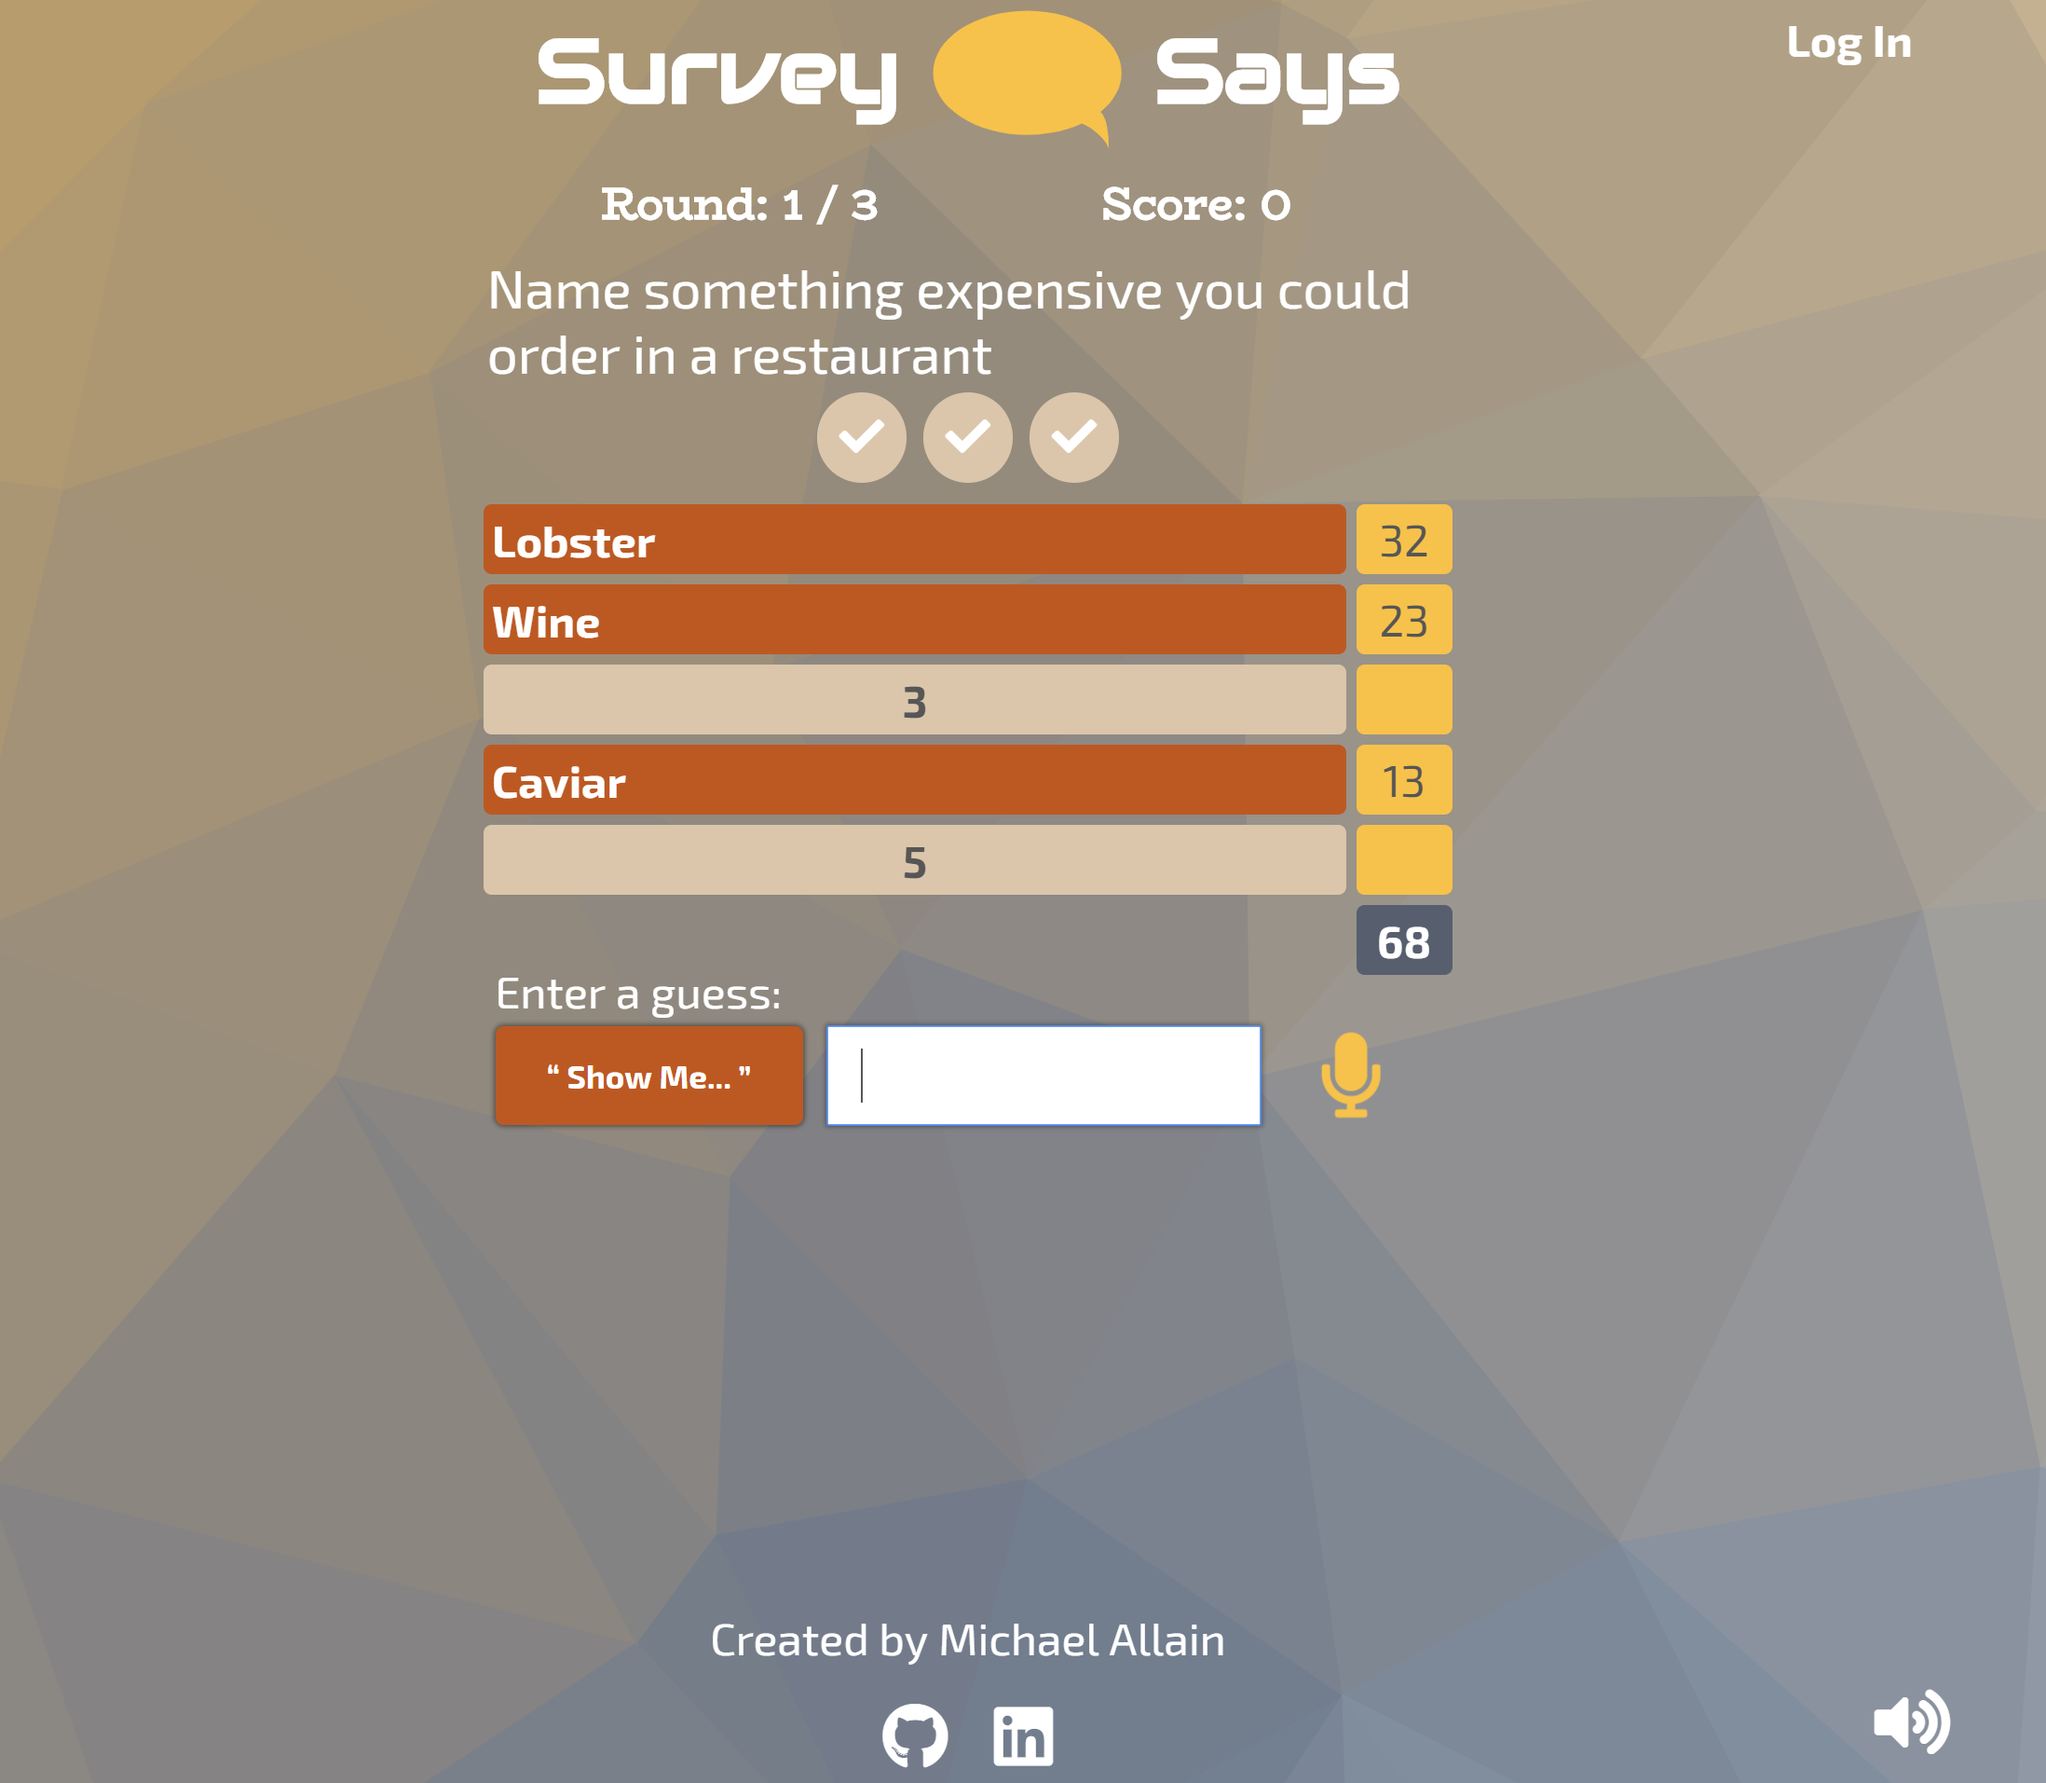
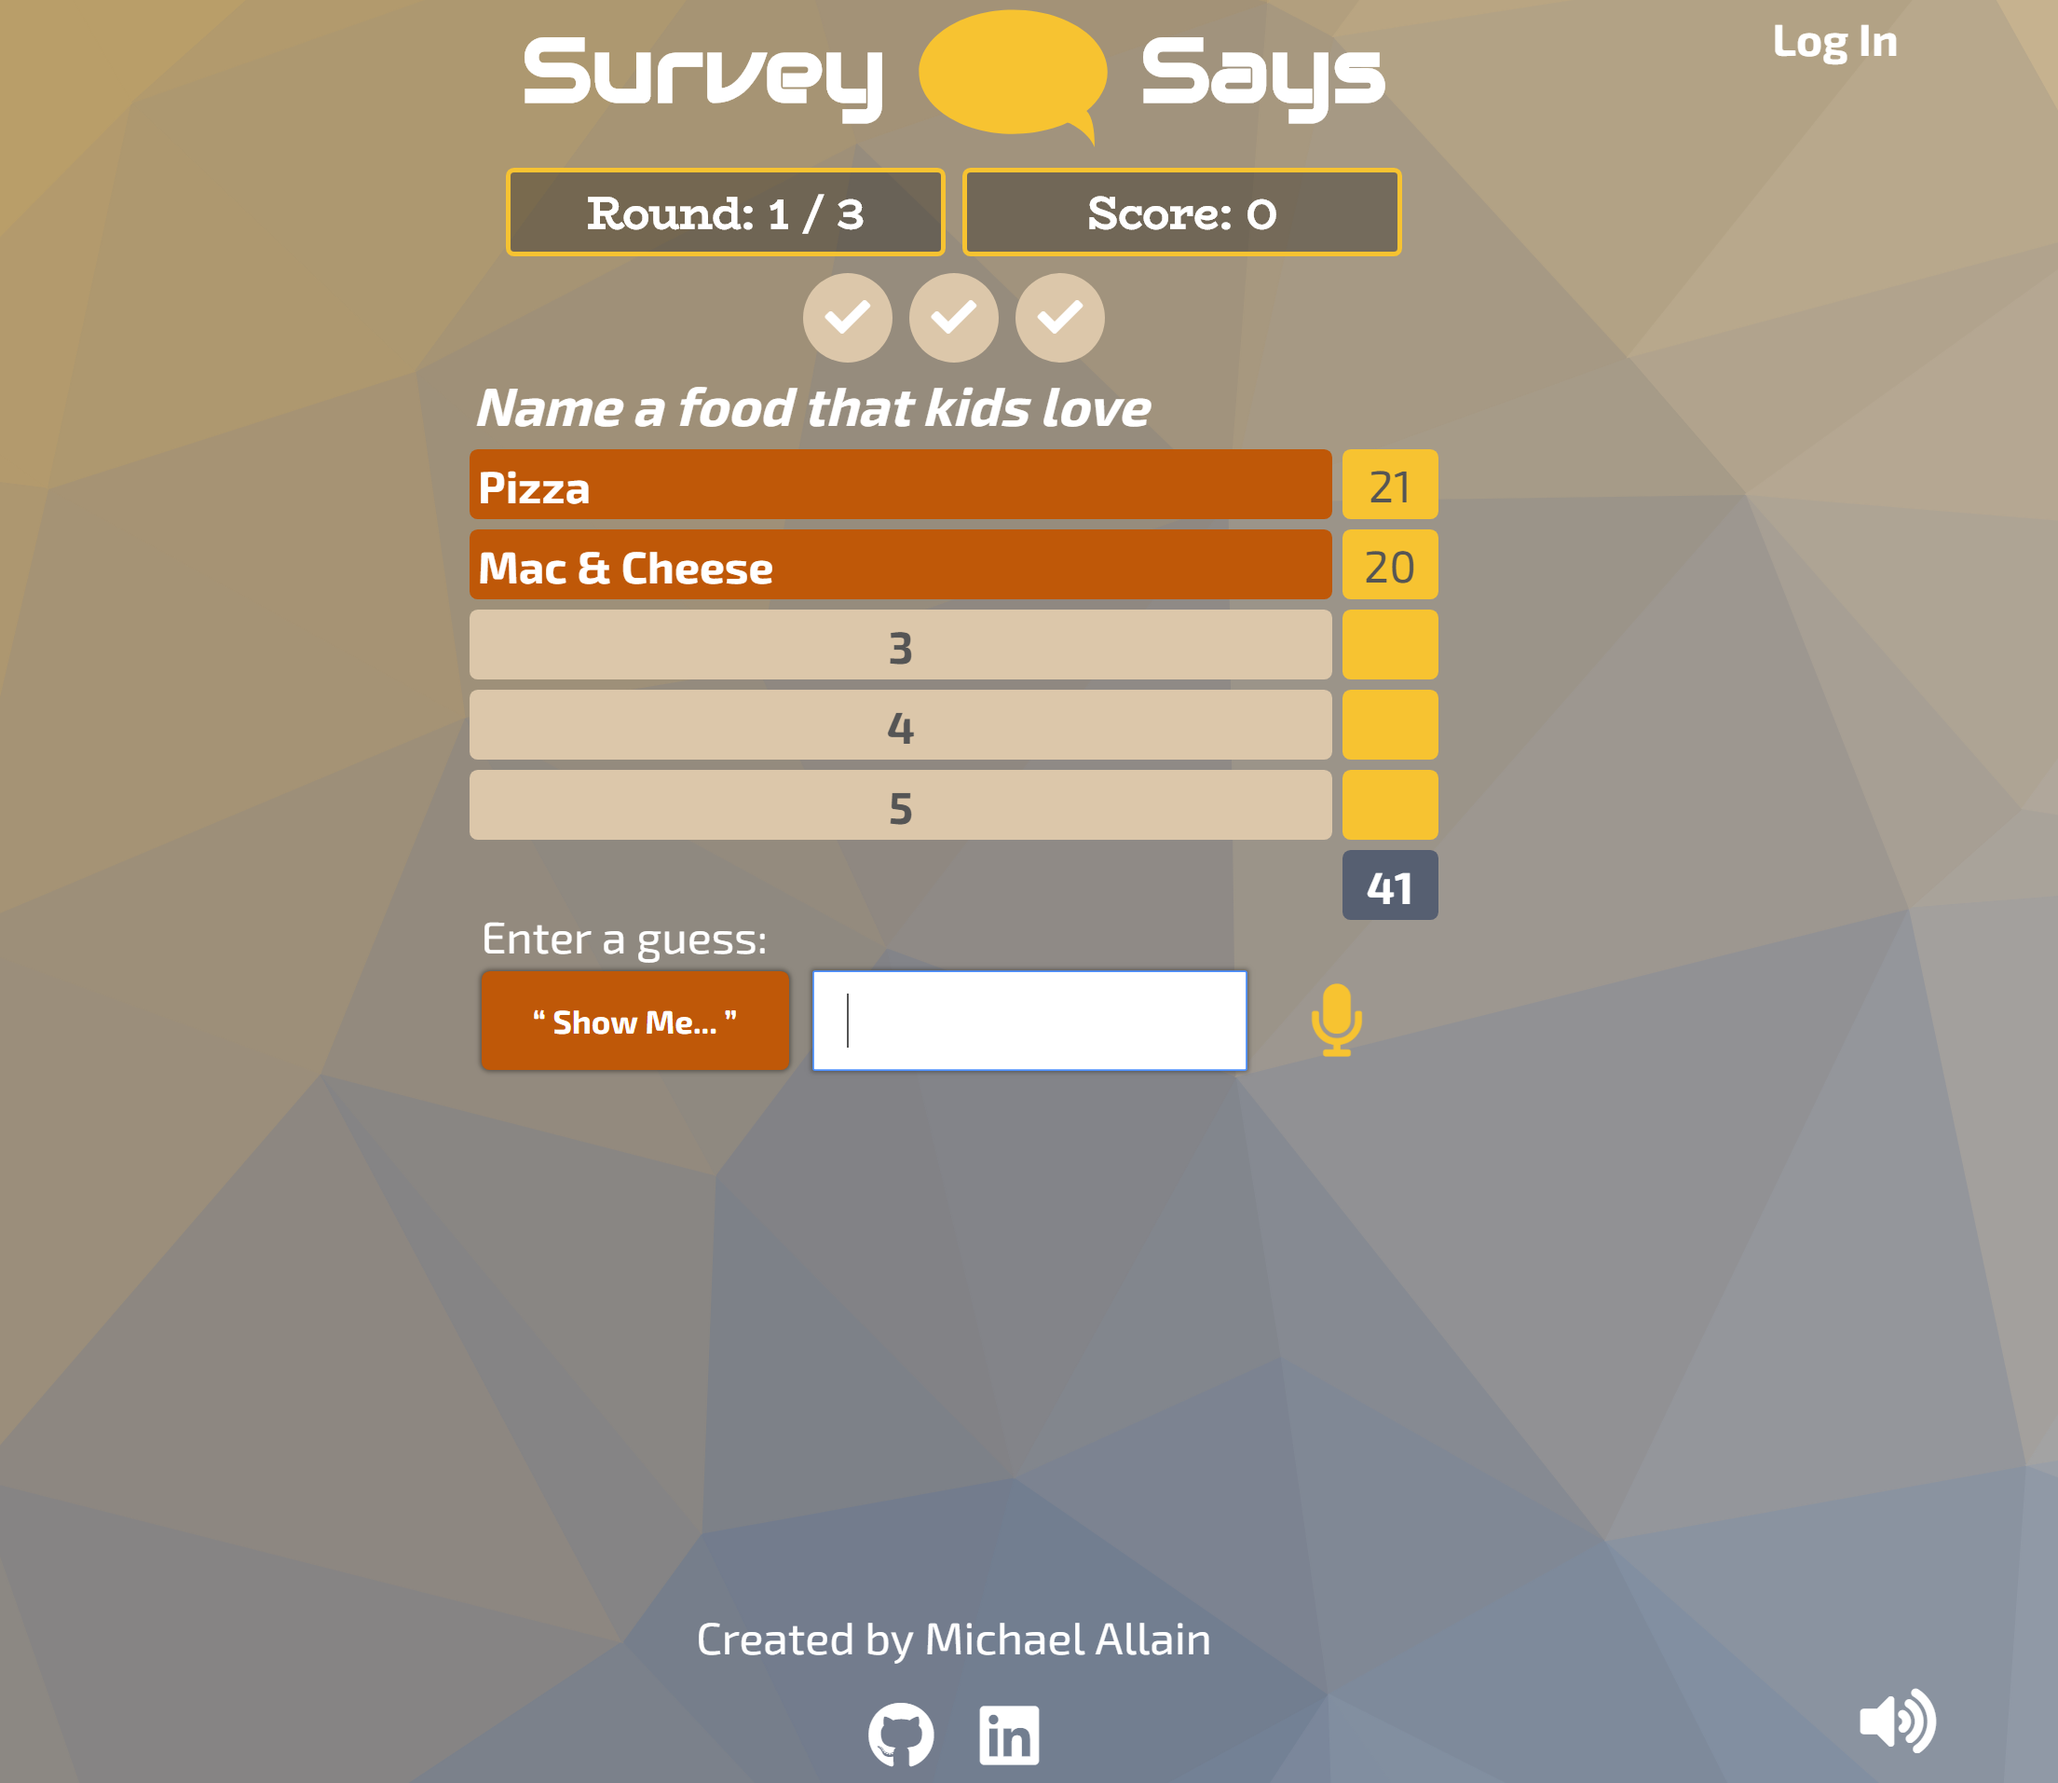
Adjust styling and readme screenshot

diff --git a/public/index.html b/public/index.html
@@ -104,22 +104,22 @@
                 </div>
             </header>
 
-            <section class='question' role='region'>
-                <p id='question-text' class='question__text'></p>
+            <section class='guesses' role='region'>
+                <div class='guesses__flex-wrapper'>
+                    <div class='guesses__icon guesses__icon--checked' aria-label='guess remaining'>
+                        <i class="fas fa-check" aria-hidden='true'></i>
+                    </div>
+                    <div class='guesses__icon guesses__icon--checked' aria-label='guess remaining'>
+                        <i class="fas fa-check" aria-hidden='true'></i>
+                    </div>
+                    <div class='guesses__icon guesses__icon--checked' aria-label='guess remaining'>
+                        <i class="fas fa-check" aria-hidden='true'></i>
+                    </div>
+                </div>
             </section>
 
-            <section class='guesses' role='region'>
-                    <div class='guesses__flex-wrapper'>
-                        <div class='guesses__icon guesses__icon--checked' aria-label='guess remaining'>
-                            <i class="fas fa-check" aria-hidden='true'></i>
-                        </div>
-                        <div class='guesses__icon guesses__icon--checked' aria-label='guess remaining'>
-                            <i class="fas fa-check" aria-hidden='true'></i>
-                        </div>
-                        <div class='guesses__icon guesses__icon--checked' aria-label='guess remaining'>
-                            <i class="fas fa-check" aria-hidden='true'></i>
-                        </div>
-                    </div>
+            <section class='question' role='region'>
+                <p id='question-text' class='question__text'></p>
             </section>
 
             <section class='answers' role='region' aria-live='polite'>

diff --git a/public/main.css b/public/main.css
@@ -576,21 +576,32 @@ html {
     margin: 0 auto;
     font-family: var(--heading-font);
     padding: 0 20px;
+    justify-content: center;
 }
 
 .game-info__flex-item {
     flex: 1 1 calc(50%);
+    border: 3px var(--ter-color) solid;
+    border-radius: 5px;
+    background: rgba(0,0,0, 0.3);
+    /* background: var(--main-bg-color); */
+    padding: 3px;
+    max-width: 10rem;
+    margin: 0 5px
 }
 
 .game-info__heading {
     text-align: center;
-    margin: 0 0 5px;
+    margin: 0;
     font-size: 2.5vmin;
 }
 
 @media (max-width: 640px), (max-height: 640px) {
     .game-info__heading {
-        font-size: 16px;
+        font-size: 14px;
+    }
+    .game-info__flex-item {
+        padding: 0;
     }
 }
 
@@ -691,15 +702,9 @@ html {
     margin: 0 auto;
     width: 90%;
     max-width: 500px;
-    padding: 0 10px 10px;
+    padding-top: 10px;
     text-align: center;
 }
-
-/* .guesses__header {
-    margin: 0 0 5px;
-    font-size: 1rem;
-    font-family: var(--heading-font);
-} */
 
 .guesses__flex-wrapper {
     display: flex;
@@ -743,6 +748,10 @@ html {
 }
 
 @media (max-height: 500px) {
+    .guesses {
+        padding-top: 5px;
+    }
+    
     .guesses__icon {
         height: 1.5rem;
         width: 1.5rem;
@@ -763,6 +772,8 @@ html {
 .question__text {
     margin: 0;
     font-size: 3vmin;
+    font-weight: bold;
+    font-style: italic;
 }
 
 @media (max-width: 640px), (max-height: 640px) {
@@ -971,6 +982,8 @@ html {
     font-weight: bold;
     text-align: center;
     max-width: 200px;
+    min-width: 120px;
+    width: 70%;
 }
 
 .results__score-box--total {
@@ -1182,13 +1195,16 @@ html {
     color: #ccc;
 }
 
-@media (max-height: 500px) {
+@media (max-height: 520px) {
     .page-footer {
         font-size: 12px;
     }
 
     .page-footer__icon {
         font-size: 14px;
+    }
+    .page-footer_para {
+        padding: 1px;
     }
 }
 
